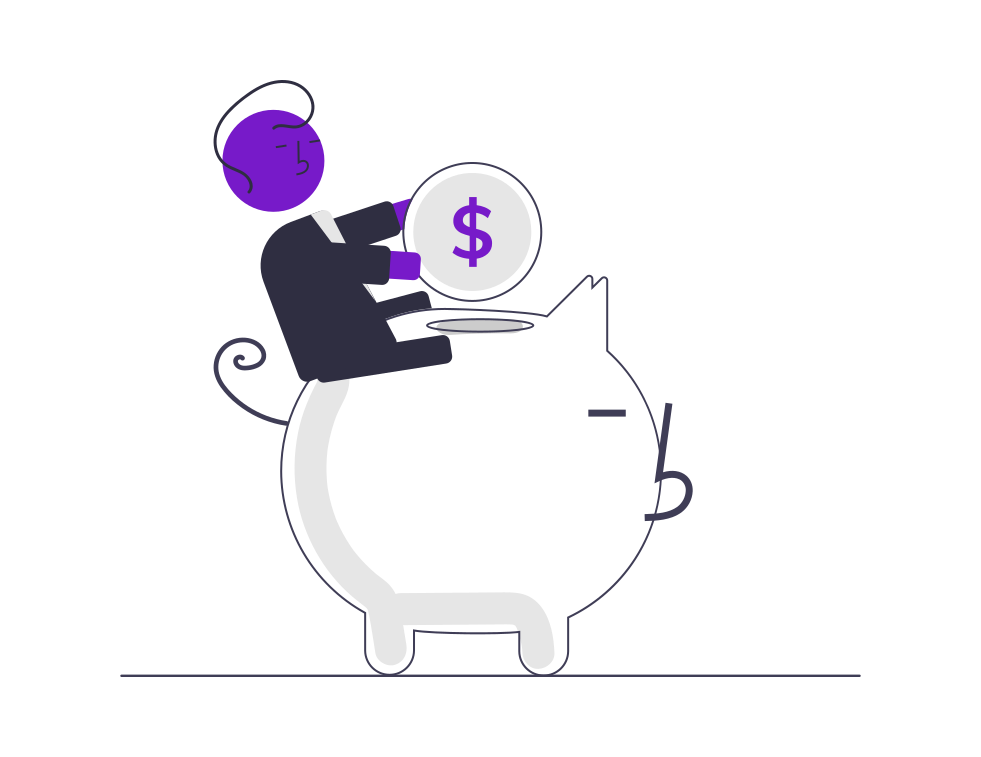
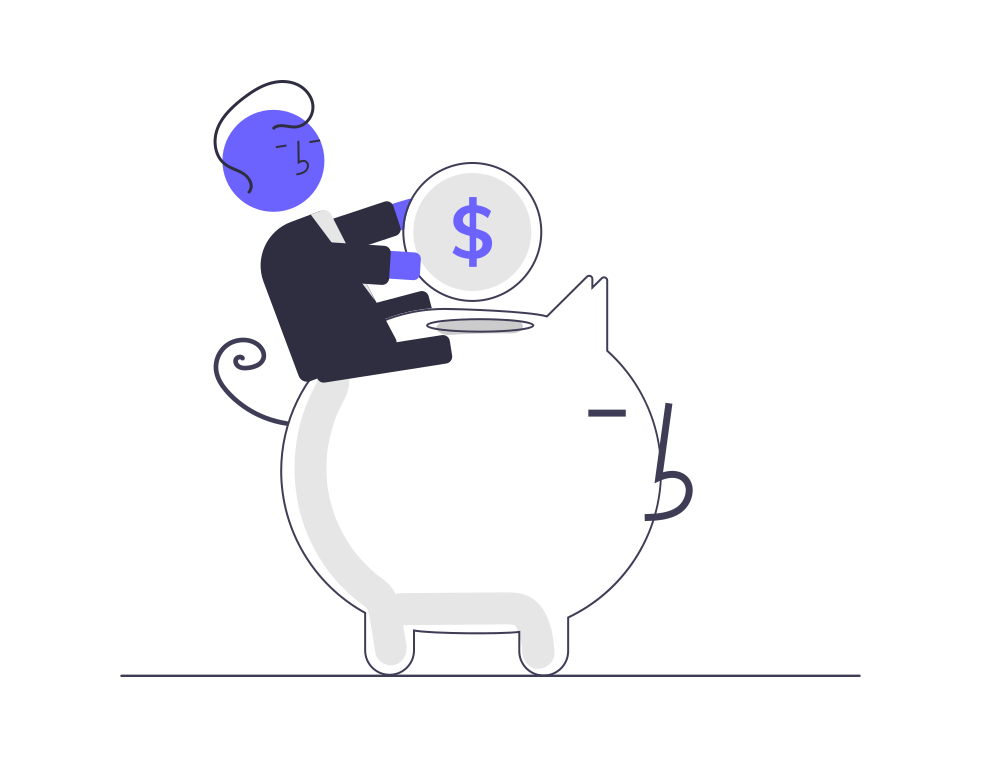
fix(server.ts): change port variable case from lowercase port to uppercase PORT to improve semantics feat(server.ts): add support for process.env.PORT environment variable to be able to run app on a configurable port fix(Button): change button text color for type PRIMARY to #fff and for type SECONDA

diff --git a/src/screens/Login/index.tsx b/src/screens/Login/index.tsx
@@ -3,7 +3,7 @@ import { useNavigation } from "@react-navigation/native";
 import { Button } from "../../components/Button";
 import { Header } from "../../components/Header";
 import { Input } from "../../components/Input";
-import { Container, Title, HightLight , Subtitle} from "./styles";
+import { Container, Title, HightLight, Subtitle } from "./styles";
 import { useAuth } from "../../hooks/useAuth";
 import { api } from "../../services/api";
 import { useEffect, useState } from "react";
@@ -18,11 +18,15 @@ export function Login() {
   const navigation = useNavigation();
   const { control, reset, handleSubmit, formState: { errors } } = useForm<FormData>()
   const [isLoading, setIsLoading] = useState(false);
-  
+
   function newAccount() {
     navigation.navigate('signup')
   }
-  
+
+  function handleBack() {
+    navigation.goBack();
+  }
+
   async function handleLogin({ email, password }: FormData) {
     try {
       setIsLoading(true);
@@ -45,10 +49,10 @@ export function Login() {
           name="email"
           rules={{ required: 'Informe o e-mail' }}
           render={({ field: { onChange } }) => (
-            <Input style={{ marginTop: 50, marginBottom: 20 }} onChangeText={onChange} autoCapitalize="none" placeholder="Email" keyboardType="email-address"/>
+            <Input style={{ marginTop: 50, marginBottom: 20 }} onChangeText={onChange} autoCapitalize="none" placeholder="Email" keyboardType="email-address" />
           )}
         />
-                <Controller
+        <Controller
           control={control}
           name="password"
           rules={{ required: 'Informe a senha' }}
@@ -59,10 +63,11 @@ export function Login() {
         <Button
           title="Acessar"
           onPress={handleSubmit(handleLogin)}
-            
+
         />
-        <Subtitle style={{ marginTop: 50, marginBottom: 20}}>Ainda não tem conta?</Subtitle>
+        <Subtitle style={{ marginTop: "auto", marginBottom: 20 }}>Ainda não tem conta?</Subtitle>
         <Button onPress={newAccount} title="Criar conta" type="SECONDARY" />
+        <Button onPress={handleBack} style={{ marginTop: 10 }} title="Voltar" type="PRIMARY" />
       </HightLight>
     </Container>
   )

diff --git a/src/screens/SignUp/index.tsx b/src/screens/SignUp/index.tsx
@@ -18,10 +18,10 @@ type FormProps = {
 }
 
 const signUpSchema = yup.object({
-  name: yup.string().required('Campos obrigatório'),
-  email: yup.string().required('Campos obrigatório').email('E-mail inválido'),
-  password: yup.string().required('Campos obrigatório').min(6, 'A senha deve ter pelo menos 6 dígitos'),
-  password_confirmation: yup.string().required('Campos obrigatório').oneOf([yup.ref('password'), ''], 'A confirmação da senha não confere')
+  name: yup.string().required('Nome é obrigatório'),
+  email: yup.string().required('Email é obrigatório').email('E-mail inválido'),
+  password: yup.string().required('Senha é obrigatória').min(6, 'A senha deve ter pelo menos 6 dígitos'),
+  password_confirmation: yup.string().required('Confirmar senha um campo obrigatório').oneOf([yup.ref('password'), ''], 'A confirmação da senha não confere')
 })
 
 export function SignUp() {
@@ -55,7 +55,7 @@ export function SignUp() {
       <TopForm>
       <Title>Crie sua conta</Title>
       </TopForm>
-      {/* {
+      {
         errors.name || errors.email || errors.password || errors.password_confirmation ?
         <TopForm>
         <Error>{errors.name?.message }</Error>
@@ -63,7 +63,7 @@ export function SignUp() {
         <Error>{errors.password?.message }</Error>
         <Error>{errors.password_confirmation?.message }</Error>
       </TopForm> : <View></View>
-      } */}
+      }
 
       <Content>
         <Controller
@@ -128,8 +128,6 @@ export function SignUp() {
         <Button onPress={handleSubmit(handleRegister)} title="Criar conta"/>  
         <View style={{marginBottom: 30}} />
         <Button onPress={goBack} title="Voltar para login" type="SECONDARY" />  
-        <Title>Crie sua conta</Title>
-
       </Content>
     </Container>
   )

diff --git a/src/screens/Login/styles.ts b/src/screens/Login/styles.ts
@@ -11,18 +11,18 @@ export const Title = styled.Text`
   color: ${({ theme }) => theme.COLORS.PURPLE_DARK};
   font-size: ${({ theme }) => theme.FONT_SIZE.XL}px;
   text-align: center;
-  font-family: ${({theme}) => theme.FONT_FAMILY.BOLD};
+  font-family: ${({ theme }) => theme.FONT_FAMILY.BOLD};
 `
 
 export const Subtitle = styled.Text`
   color: ${({ theme }) => theme.COLORS.PURPLE_DARK};
   font-size: ${({ theme }) => theme.FONT_SIZE.MD}px;
   text-align: center;
-  font-family: ${({theme}) => theme.FONT_FAMILY.REGULAR};
+  font-family: ${({ theme }) => theme.FONT_FAMILY.REGULAR};
 `
 
 export const HightLight = styled.View`
-  padding: 0 20px;
+  padding:  20px;
   flex: 1;
   width: 100%;
   background-color: ${({ theme }) => theme.COLORS.WHITE};

diff --git a/src/screens/Welcome/styles.ts b/src/screens/Welcome/styles.ts
@@ -2,19 +2,19 @@ import styled from "styled-components/native";
 
 export const Container = styled.View`
   flex: 1;
-  background-color: ${({ theme }) => theme.COLORS.WHITE};
-  padding: 0 20px;
+  background-color: ${({ theme }) => theme.COLORS.PURPLE};
+  padding: 20px;
 `
 
 export const BackgroundImage = styled.Image`
-  height: 450px;
+  height: 350px;
   width: 100%;
 `
 
 export const Title = styled.Text`
   font-size: ${({ theme }) => theme.FONT_SIZE.XL}px;
-  color: ${({ theme }) => theme.COLORS.PURPLE_DARK};
+  color: ${({ theme }) => theme.COLORS.WHITE};
   text-align: center;
   font-family: ${({theme}) => theme.FONT_FAMILY.BOLD};
-  margin-bottom: 50px;
+  margin-bottom: auto;
 `

diff --git a/src/screens/Welcome/index.tsx b/src/screens/Welcome/index.tsx
@@ -1,6 +1,6 @@
 import { useNavigation } from "@react-navigation/native";
 import { BackgroundImage, Container, Title } from "./styles";
-import background from './../../../assets/background.png';
+import background from './../../../assets/welcome.png';
 import { Button } from "../../components/Button";
 export function Welcome() {
   const navigation = useNavigation();
@@ -14,6 +14,7 @@ export function Welcome() {
       <BackgroundImage source={background} />
       <Title>Tenha o controle das suas finanças</Title>
       <Button
+        type="SECONDARY"
         title="Acessar"
         onPress={handleWelcome}
       />

diff --git a/src/components/Input/styles.ts b/src/components/Input/styles.ts
@@ -3,12 +3,12 @@ import styled from "styled-components/native";
 
 export const Container = styled(TextInput)`
   flex: 1;
-  min-height: 56px; 
-  max-height: 56px; 
+  min-height: 42px; 
+  max-height: 42px; 
   width: 100%;
   background-color: ${({theme}) => theme.COLORS.WHITE};
   color: ${({ theme }) => theme.COLORS.PURPLE};
   border: 1px solid ${({ theme }) => theme.COLORS.PURPLE};
   border-radius: 6px;
-  padding: 16px;
+  padding: 0 16px;
 `

diff --git a/src/components/Button/styles.ts b/src/components/Button/styles.ts
@@ -11,9 +11,9 @@ type Props = {
 export const Container = styled(TouchableOpacity) <Props> `
   flex: 1;
   width: 100%;
-  min-height: 56px;
-  max-height: 56px;
-  border: 1px solid #771ac9;
+  min-height: 42px;
+  max-height: 42px;
+  border: 1px solid #6C63FF;
   background-color: ${({ theme, type }) => type === 'PRIMARY' ? theme.COLORS.PURPLE : theme.COLORS.WHITE };
   border-radius: 6px;
   justify-content: center;

diff --git a/src/theme/index.ts b/src/theme/index.ts
@@ -5,8 +5,8 @@ export default {
     GREEN_700: '#00875F',
     GREEN_500: '#00B37E',
 
-    PURPLE: '#771AC9',
-    PURPLE_DARK: '#612f71',
+    PURPLE: '#6C63FF',
+    PURPLE_DARK: '#4C43D6',
 
     GRAY_700: '#121214',
     GRAY_600: '#202024',
@@ -26,6 +26,6 @@ export default {
     SM: 14,
     MD: 16,
     LG: 18,
-    XL: 24
+    XL: 22
   }
 };

diff --git a/src/components/Button/index.tsx b/src/components/Button/index.tsx
@@ -12,7 +12,7 @@ export function Button({ title, type = 'PRIMARY', ...rest}: Props) {
     <Container
       type={type}
       {...rest}>
-      <Title style={{color: type === 'PRIMARY' ? '#fff' : '#771ac9' }}>
+      <Title style={{color: type === 'PRIMARY' ? '#fff' : '#6C63FF' }}>
         {title}
       </Title>
     </Container>

diff --git a/src/screens/TypeSelect/index.tsx b/src/screens/TypeSelect/index.tsx
@@ -64,7 +64,7 @@ export function TypeSelect({
             </Category>
           )}
         />
-        <View style={{ marginTop: '100%'}}>
+        <View style={{ marginTop: 40}}>
           <Button title="Selecionar" onPress={closedSelectType} />
         </View>
         

diff --git a/src/services/api.ts b/src/services/api.ts
@@ -1,5 +1,5 @@
 import axios from 'axios';
 
 export const api = axios.create({
-  baseURL: 'https://4e70-2804-d4b-7932-3e00-8c18-ba2e-fb2-687c.ngrok-free.app'
+  baseURL: 'https://6b8e-2804-d4b-7932-3e00-8c18-ba2e-fb2-687c.ngrok-free.app'
 })

diff --git a/src/screens/SignUp/styles.ts b/src/screens/SignUp/styles.ts
@@ -7,7 +7,7 @@ export const Content = styled.View`
   align-items: center;
   background-color: ${({ theme }) => theme.COLORS.WHITE};
   flex: 1;
-  padding: 0 20px;
+  padding: 20px;
 `
 
 export const TopForm = styled.View`
